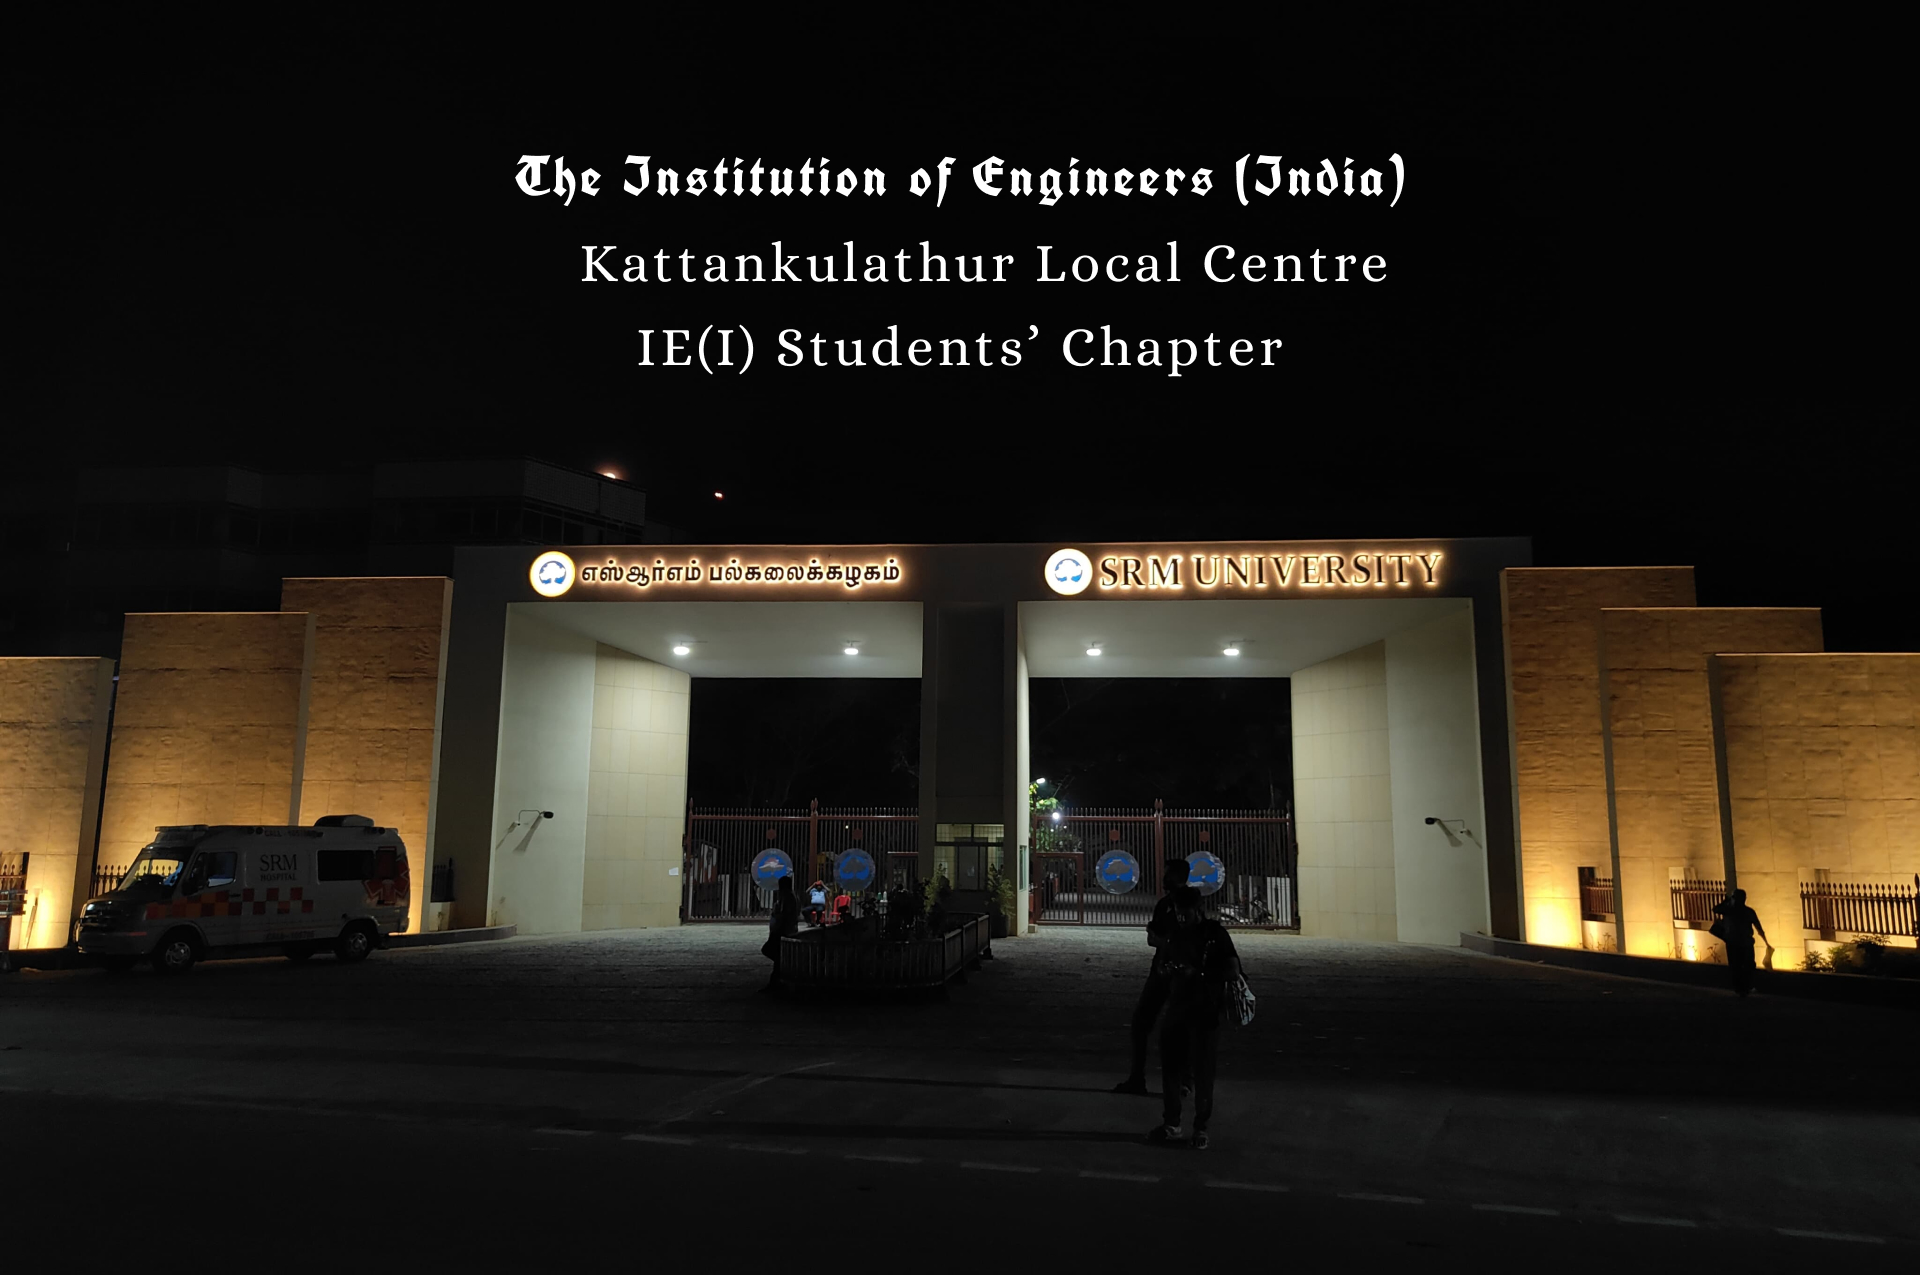
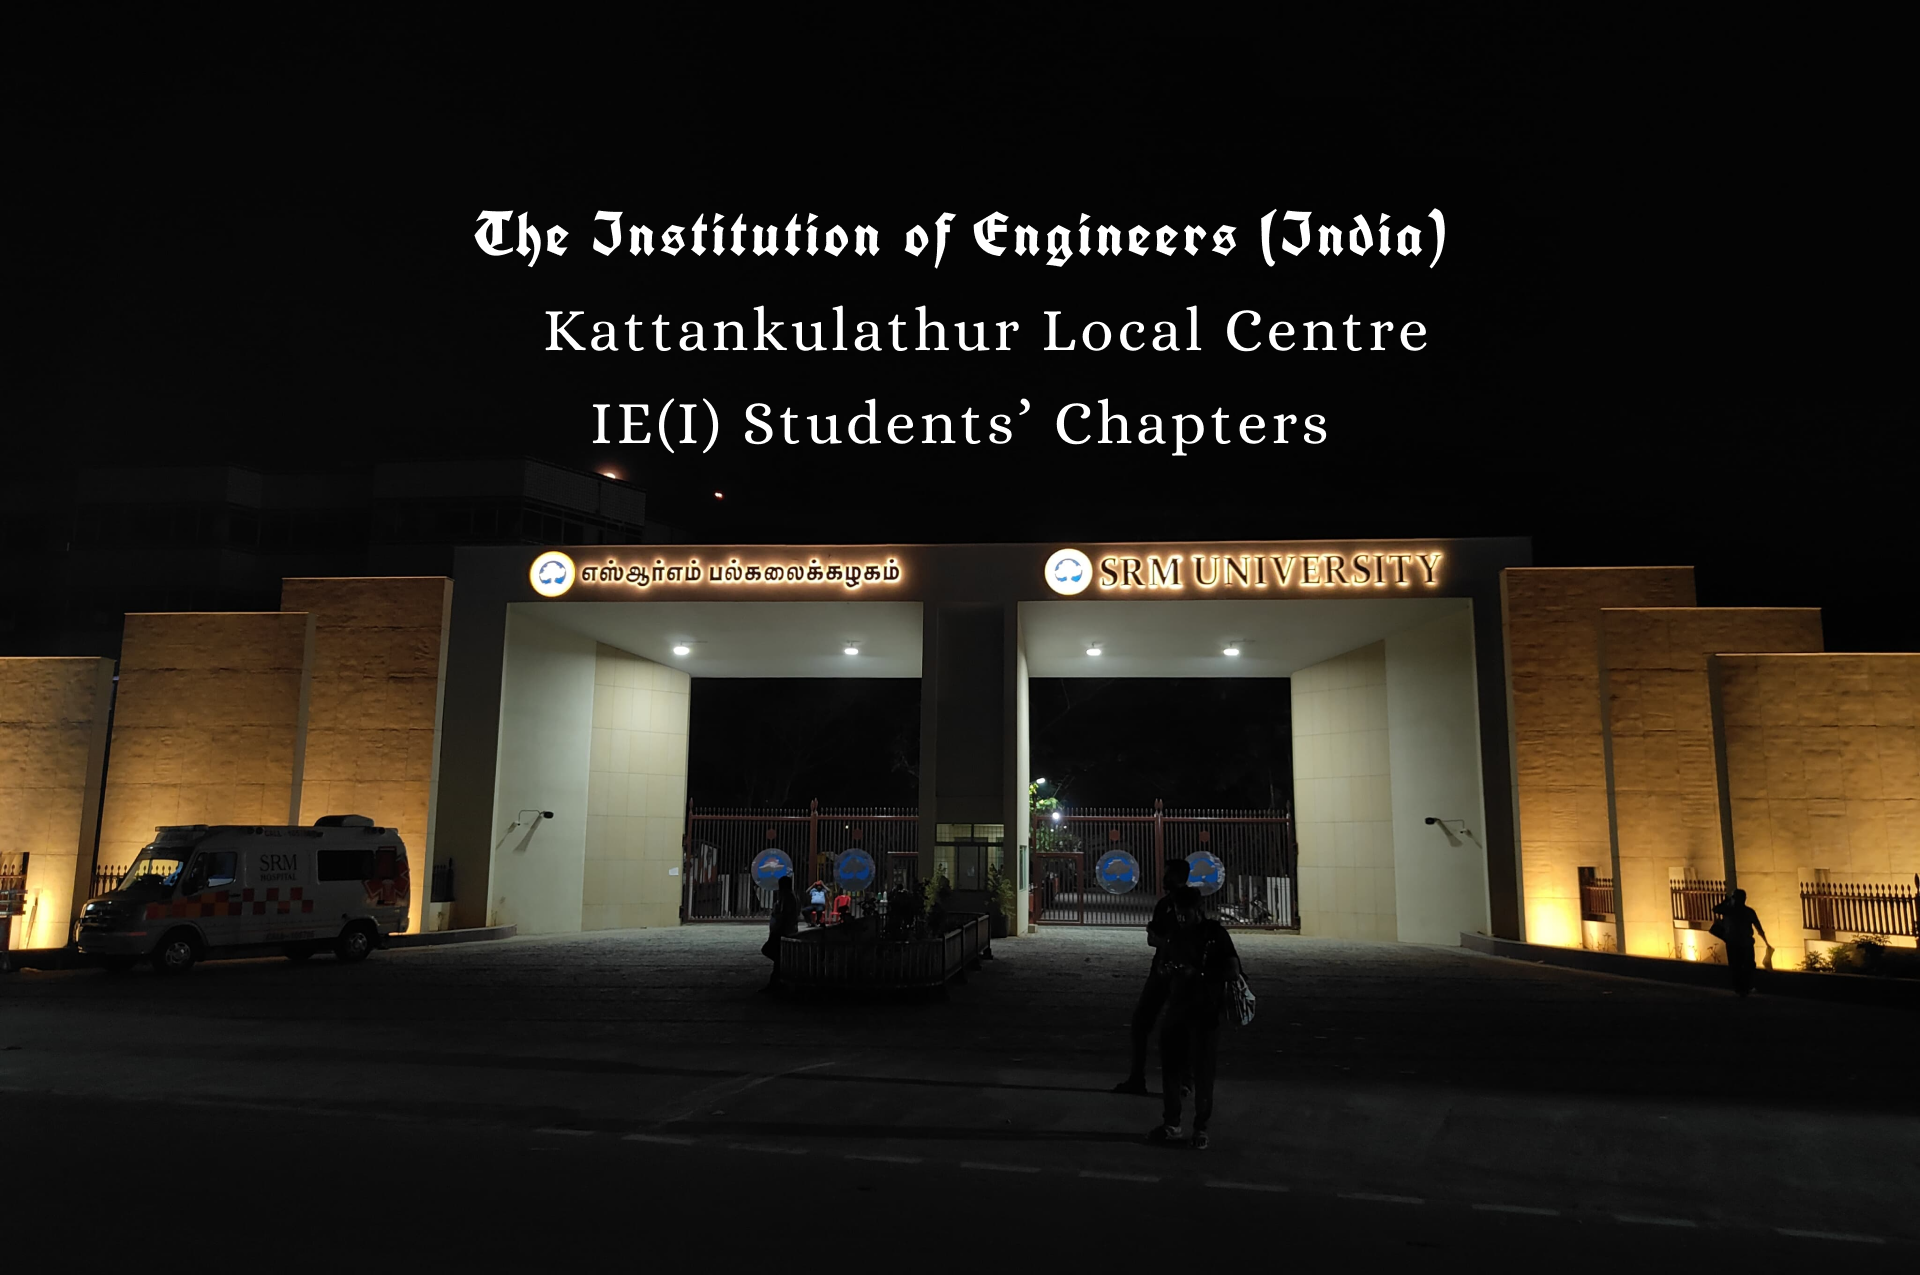
Minor changes
Images altered, Box background color changed

Changed region(s): [[0.25, 0.1224, 0.75, 0.3671]]

diff --git a/CTech.html b/CTech.html
@@ -289,7 +289,7 @@
             style="text-align:center; color: black; font-size: 40px; font-family: Alice; font-weight: 400; line-height: 99px; word-wrap: break-word; padding-top: 50px;">
             Dr. M. PUSHPALATHA, HOD, C.TECH</div>
             <div style="padding-left: 50px; padding-right: 50px;">    
-                <div style="border-radius: 50px;border: 4px solid #1B3698; background: #D9D9D9;box-shadow: 0px 4px 4px 0px rgba(0, 0, 0, 0.25);">
+                <div style="border-radius: 50px;border: 4px solid #1B3698; background: #FFF0CD;box-shadow: 0px 4px 4px 0px rgba(0, 0, 0, 0.25);">
             <div
             style="text-align: left;padding: 50px 50px 50px 50px;  width: 100%; height: 100%; color: black; font-size: 30px; font-family: Alice; font-weight: 400; line-height: 50px; word-wrap: break-word">
             Dear Readers, At the outset, I was enthralled to notice the students' enrollment since May 2022 from 70
@@ -364,7 +364,7 @@
             style="text-align:center; color: black; font-size: 40px; font-family: Alice; font-weight: 400; line-height: 99px; word-wrap: break-word; padding-top: 50px;">
             Dr. M. UMA DEVI, FIE, C.TECH</div>
         <div style="padding-left: 50px; padding-right: 50px;">    
-        <div style="border-radius: 50px;border: 4px solid #1B3698; background: #D9D9D9;box-shadow: 0px 4px 4px 0px rgba(0, 0, 0, 0.25);">
+        <div style="border-radius: 50px;border: 4px solid #1B3698; background: #FFF0CD;box-shadow: 0px 4px 4px 0px rgba(0, 0, 0, 0.25);">
             <div
             style="text-align: left;padding: 50px 50px 50px 50px;  width: 100%; height: 100%; color: black; font-size: 30px; font-family: Alice; font-weight: 40000; line-height: 35px; word-wrap: break-word">
             The Computer Engineering Divisions of the IE(I) Kattankulathur Local Centre SRMIST oversee the operations of
@@ -419,7 +419,7 @@
                     <div class="col-xl-5 col-lg-6 col-md-6">
                         <div class="tp-choose-content mb-30">
                             <div class="section-title mb-25">    
-                                    <div style="border-radius: 50px;border: 4px solid #1B3698; background: #D9D9D9;box-shadow: 0px 4px 4px 0px rgba(0, 0, 0, 0.25); padding-bottom: 20px;">
+                                    <div style="border-radius: 50px;border: 4px solid #1B3698; background: #FFF0CD;box-shadow: 0px 4px 4px 0px rgba(0, 0, 0, 0.25); padding-bottom: 20px;">
                                 <div
                                     style="text-align: center; padding-top: 50px;  width: 100%; height: 100%; color: black; font-size: 30px; font-family: Alice; font-weight: 40000; line-height: 35px; word-wrap: break-word">
                                     A rich blend of technical leadership and social consciousness is entrusted to
@@ -451,7 +451,7 @@
                     <div class="col-xl-5 col-lg-6 col-md-6">
                         <div class="tp-choose-content mb-30">
                             <div class="section-title mb-25">   
-                                    <div style="border-radius: 50px;border: 4px solid #1B3698; background: #D9D9D9;box-shadow: 0px 4px 4px 0px rgba(0, 0, 0, 0.25);padding-bottom: 20px; padding-left: 10px; padding-right: 10px;">
+                                    <div style="border-radius: 50px;border: 4px solid #1B3698; background: #FFF0CD;box-shadow: 0px 4px 4px 0px rgba(0, 0, 0, 0.25);padding-bottom: 20px; padding-left: 10px; padding-right: 10px;">
                                 <div
                                     style="text-align: center; padding-top: 50px;  width: 100%; height: 100%; color: black; font-size: 30px; font-family: Alice; font-weight: 40000; line-height: 35px; word-wrap: break-word">
                                     The IE(I) Students’ Chapter, Department of Computing Technologies is established on

diff --git a/Parent-Page.html b/Parent-Page.html
@@ -298,19 +298,12 @@
                 <div class="container">
                     <div class="row">
                         <div class="slider-content">
+                           <img src="assets/img/slider/slider-bg-01.jpg"> 
                             <!-- Your content for Slide 1 -->
-                            <h2 class="slider-title" style=" font-family: UnifrakturCook;"
-                            style="line-height: 97.50px;">
-                            The Institute of Engineers (India)</h2>
-                        <h2 class="slider-title" style=" font-family: Poppins">Kattankulathur Local Campus<br>
-                            IE(I) Students' Chapters</h2>
-                        <div class="tp-suit__btn pt-5">
-                            <a href="https://forms.gle/XjHkgwwWK47ydNkg6"  class="tp-border-btn">Join Now</a>
-                        </div>
-                            </div>
                         </div>
                     </div>
                 </div>
+            </div>
             </div>
         </div>
 
@@ -335,7 +328,7 @@
                 Chapter KTR</h2>
         </div>
         <div style="padding-left: 50px; padding-right: 50px; padding-bottom: 50px;">    
-            <div style="border-radius: 50px;border: 4px solid #1B3698; background: #D9D9D9;">
+            <div style="border-radius: 50px;border: 4px solid #1B3698; background: #FFF0CD;">
 
         <div
             style="text-align: left;padding: 50px 50px 50px 50px;  width: 100%; height: 100%; color: black; font-size: 30px; font-family: Alice; font-weight: 400; line-height: 50px; word-wrap: break-word">
@@ -557,10 +550,10 @@
                 style=" font-family: Poppins; color: #000000; line-height: 40px; padding-bottom: 50px;">Membership Benefits</h2>
         </div>
         <div style="padding-left: 50px; padding-right: 50px; padding-bottom: 50px;">    
-            <div style="border-radius: 50px;border: 4px solid #1B3698; background: #D9D9D9;">
+            <div style="border-radius: 50px;border: 4px solid #1B3698; background: #FFF0CD;">
 
         <div
-            style="text-align: left;padding: 15px 15px 15px 15px;  width: 100%; height: 100%; color: black; font-size: 15px; font-family: Alice; font-weight: 40; line-height: 17px; word-wrap: break-word">
+            style="text-align: left;padding: 15px 15px 15px 15px;  width: 100%; height: 100%; color: black; font-size: 20px; font-family: Alice; font-weight: 40; line-height: 20px; word-wrap: break-word">
             
             <bold>1.</bold> Opportunity to participate in technical events organized by IEI State/Local Centres.<br>
             <bold>2.</bold> Participation in various technical activities of the students' chapter.<br>
